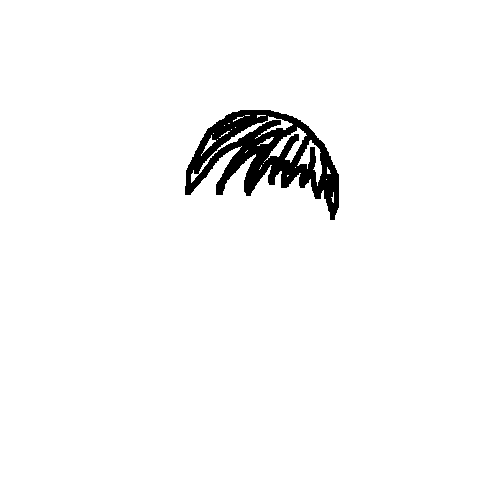
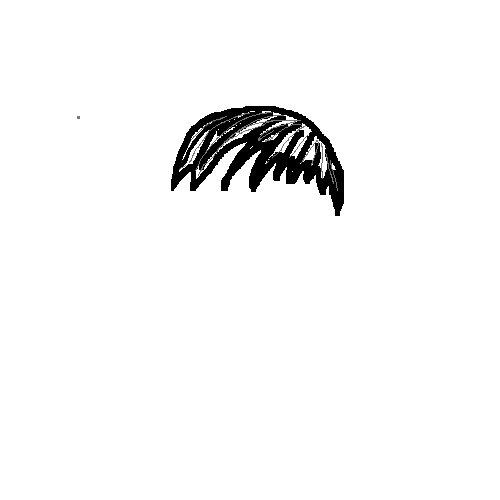
Same Color Hairs

Changed region(s): [[0.33, 0.21, 0.69, 0.45]]

diff --git a/character.py b/character.py
@@ -64,8 +64,11 @@ class Character:
                 item[1]['pattern'] = self.resources_path + 'patterns/0.png'
         # print()
         if 'hair' in self.parts['hats']['path']:
+            self.parts['hats']['color'] = self.parts['backhaircuts']['color']
             self.parts['haircuts']['path']=self.resources_path + 'haircuts/0.png'
             self.parts['backhaircuts']['path'] = self.resources_path + 'haircuts/0.png'
+        self.parts['haircuts']['color'] = self.parts['backhaircuts']['color']
+        self.parts['moustaches']['color'] = self.parts['backhaircuts']['color']
         self.parts['wrists']['color'] = self.parts['bodies']['color']
         self.parts['wrists']['pattern'] = self.parts['bodies']['pattern']
         self.parts['wrists']['pattern-color'] = self.parts['bodies']['pattern-color']
